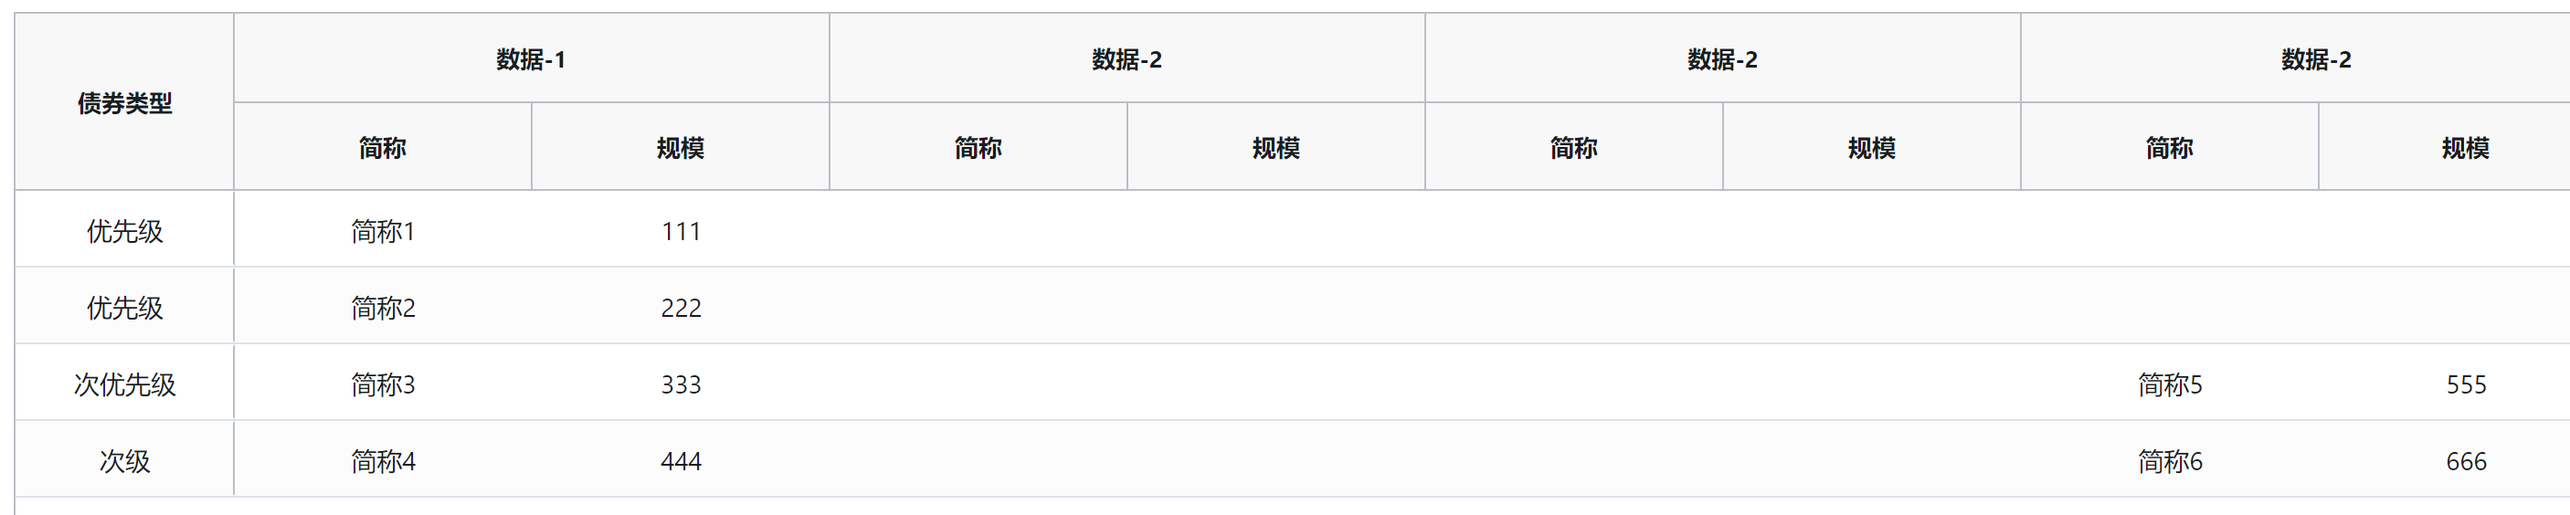
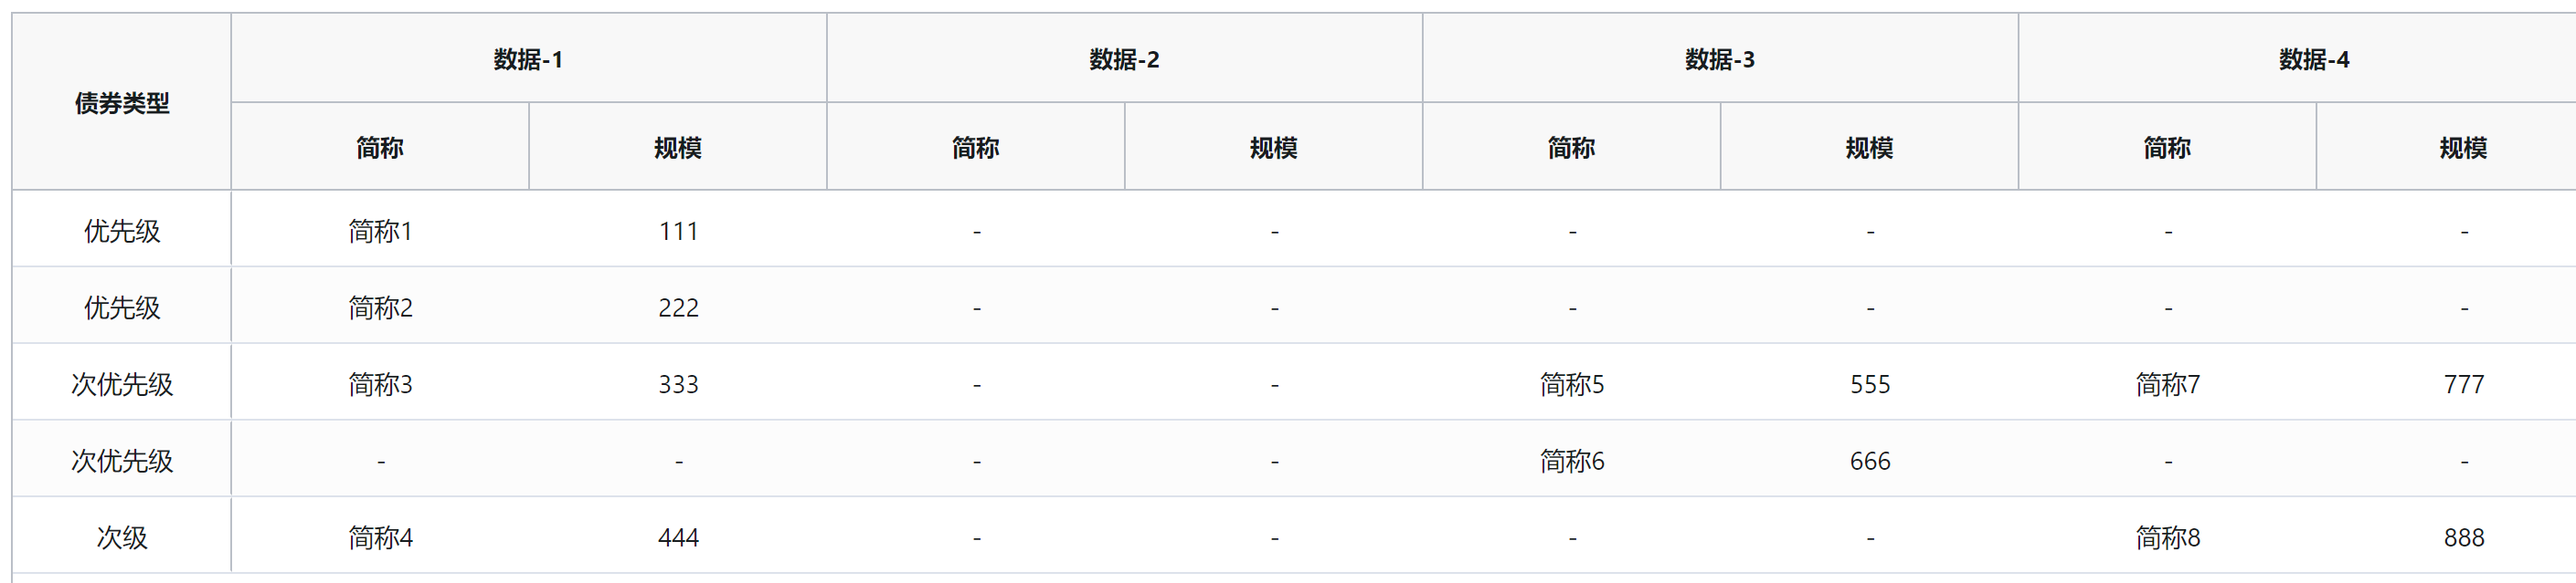
fix(react): 🐛 change the demo show image

diff --git a/react/data/ag-grid-react-data.html b/react/data/ag-grid-react-data.html
@@ -14,7 +14,9 @@
   </head>
   <body>
     <h4>ag-grid-react 的 AgGridReact 组件数据适配</h4>
-    <h5 style="color: #00ff">后端返回数据转换</h5>
+    <h5 style="color: #00ff">
+      后端返回数据转换（表格表头不固定、数据不固定，避免卡顿，使用了上述组件）
+    </h5>
     <hr />
     <img src="/assets/imgs/ag-grid-react.png" alt="" />
     <img src="/assets/imgs/ag-grid-react.tsx.png" alt="" />
@@ -28,10 +30,10 @@
           { itemName: 'balance', itemValue: '规模' }
         ],
         trustIdNames: [
-          { id: 1, trustName: '债券1' },
-          { id: 2, trustName: '债券2' },
-          { id: 3, trustName: '债券3' },
-          { id: 4, trustName: '债券4' }
+          { id: 1, trustName: '数据-1' },
+          { id: 2, trustName: '数据-2' },
+          { id: 3, trustName: '数据-3' },
+          { id: 4, trustName: '数据-4' }
         ],
         dataInfo: [
           [
@@ -41,10 +43,13 @@
             { id: 1, classType: '次级', shortName: '简称4', balance: '444' }
           ],
           [],
-          [],
           [
-            { id: 4, classType: '次优先级', shortName: '简称5', balance: '555' },
-            { id: 4, classType: '次级', shortName: '简称6', balance: '666' }
+            { id: 3, classType: '次优先级', shortName: '简称5', balance: '555' },
+            { id: 3, classType: '次优先级', shortName: '简称6', balance: '666' }
+          ],
+          [
+            { id: 4, classType: '次优先级', shortName: '简称7', balance: '777' },
+            { id: 4, classType: '次级', shortName: '简称8', balance: '888' }
           ]
         ]
       };
@@ -54,46 +59,57 @@
       //   {
       //     classType: '优先级',
       //     shortName1: '简称1',
-      //     balance1: '111',
       //     shortName2: '-',
-      //     balance2: '-',
       //     shortName3: '-',
-      //     balance3: '-',
       //     shortName4: '-',
+      //     balance1: '111',
+      //     balance2: '-',
+      //     balance3: '-',
       //     balance4: '-'
       //   },
       //   {
       //     classType: '优先级',
       //     shortName1: '简称2',
-      //     balance1: '222',
       //     shortName2: '-',
-      //     balance2: '-',
       //     shortName3: '-',
-      //     balance3: '-',
       //     shortName4: '-',
+      //     balance1: '222',
+      //     balance2: '-',
+      //     balance3: '-',
       //     balance4: '-'
       //   },
       //   {
       //     classType: '次优先级',
       //     shortName1: '简称3',
-      //     balance1: '333',
       //     shortName2: '-',
+      //     shortName3: '简称5',
+      //     shortName4: '简称7',
+      //     balance1: '333',
       //     balance2: '-',
-      //     shortName3: '-',
-      //     balance3: '-',
-      //     shortName4: '简称5',
-      //     balance4: '555'
+      //     balance3: '555',
+      //     balance4: '777'
+      //   },
+      //   {
+      //     classType: '次优先级',
+      //     shortName1: '-',
+      //     shortName2: '-',
+      //     shortName3: '简称6',
+      //     shortName4: '-',
+      //     balance1: '-',
+      //     balance2: '-',
+      //     balance3: '666',
+      //     balance4: '-'
       //   },
       //   {
       //     classType: '次级',
       //     shortName1: '简称4',
-      //     balance1: '444',
       //     shortName2: '-',
-      //     balance2: '-',
       //     shortName3: '-',
+      //     shortName4: '简称8',
+      //     balance1: '444',
+      //     balance2: '-',
       //     balance3: '-',
-      //     shortName4: '简称6',
-      //     balance4: '666'
+      //     balance4: '888'
       //   }
       // ];
 
